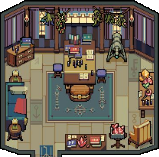
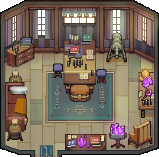
update

diff --git a/Games/yanno.js b/Games/yanno.js
@@ -20,20 +20,30 @@ function init() {
 
    let time = new Date();
 
+   let atr_value = "background-color: " + timecolor
+
    if (time.getHours() >= 20) { //entre 20h et minuit
-      timecolor = "#2e4482";
+      atr_value = "background-color: #2e4482";
    } else {
-      if (time.getHours() >= 17) { //entre 17h et minuit
-         timecolor = "#629fe3";
+      if (time.getHours() >= 19) {//entre 19h et 20h
+         atr_value = "background-color: #FCEBA8";
       } else {
-         if (time.getHours() >= 14) { //entre 14h et 17h
-            timecolor = "#6DB4EB";
+         if (time.getHours() >= 17) { //entre 17h et 19h
+            atr_value = "background-color: #629fe3";
          } else {
-            if (time.getHours() >= 8) { //entre 8h et 14h
-               timecolor = "#94CDFD";
+            if (time.getHours() >= 14) { //entre 14h et 17h
+               atr_value = "background-color: #6DB4EB";
             } else {
-               if (time.getHours() >= 0) { //entre minuit et 8h
-                  timecolor = "#131862";
+               if (time.getHours() >= 8) { //entre 8h et 14h
+                  atr_value = "background-color: #94CDFD";
+               } else {
+                  if (time.getHours() >= 2) { //entre 2h et 8h
+                     atr_value = "background-color: #131862";
+                  } else {
+                     if (time.getHours() >= 0) { //entre minuit et 2h
+                        atr_value = "background-image: url(\"./assets/starsky.gif\") !important; background-size: 100%;"
+                     }
+                  }
                }
             }
          }
@@ -50,8 +60,7 @@ function init() {
    // colorPicker.on('color:change', function (color) {
    //    camera.style.backgroundColor = color.hexString;
    // });
-
-   camera.style.backgroundColor = timecolor
+   camera.setAttribute("style", atr_value);
    spawn()
 }
 
@@ -61,6 +70,7 @@ var held_directions = []; //State of which arrow keys we are holding down
 var mapLimit = null
 
 function applyLimit(limit) {
+   console.log(limit)
    mapLimit = {
       leftLimit: limit.leftLimit,//x mur de gauche
       rightLimit: limit.rightLimit,// x mur de droite
@@ -140,6 +150,7 @@ const placeCharacter = () => {
 }
 
 async function signInterraction() {
+   if (list_interraction.texts == null || list_interraction.texts == undefined) { return }
    list_interraction.texts.forEach(txt => {
       if ((character_info.x >= txt.rangeX.xmin && character_info.x <= txt.rangeX.xmax) && (character_info.y >= txt.rangeY.ymin && character_info.y <= txt.rangeY.ymax)) {
          locktxt = true;
@@ -152,6 +163,7 @@ async function signInterraction() {
 }
 
 async function otherInterraction() {
+   if (list_interraction.others == null || list_interraction.others == undefined) { return }
    list_interraction.others.forEach(other_interraction => {
       if ((character_info.x >= other_interraction.rangeX.xmin && character_info.x <= other_interraction.rangeX.xmax) && (character_info.y >= other_interraction.rangeY.ymin && character_info.y <= other_interraction.rangeY.ymax)) {
          lockother = true;
@@ -164,6 +176,7 @@ async function otherInterraction() {
 }
 
 async function npcInterraction() {
+   if (list_interraction.npcs == null || list_interraction.npcs == undefined) { return }
    list_interraction.npcs.forEach(npc => {
       if ((character_info.x >= npc.rangeX.xmin && character_info.x <= npc.rangeX.xmax) && (character_info.y >= npc.rangeY.ymin && character_info.y <= npc.rangeY.ymax)) {
          locknpc = true;
@@ -241,14 +254,25 @@ document.addEventListener("keydown", (e) => {
       tchat_display(interraction_item)
       switch (interraction_item.type) {
          case 'door':
-            console.log(interraction_item)
             mapload(interraction_item.travel)
             break;
-         case 'fishing':
-            document.querySelector(".fishing").style.visibility = "visible"
-            setTimeout(() => {
-               document.querySelector(".fishing").style.visibility = "hidden"
-            }, 8000)
+         case 'other':
+            switch (interraction_item.name) {
+               case 'fishing':
+                  document.querySelector(".fishing").style.visibility = "visible"
+                  setTimeout(() => {
+                     document.querySelector(".fishing").style.visibility = "hidden"
+                  }, 8000)
+                  break
+               case 'telescope':
+                  map.style.visibility = "hidden";
+                  setTimeout(()=>{
+                     map.style.visibility = "visible"
+                  },5000)
+                  break
+               default:
+                  break;
+            }
          default:
             break;
       }
@@ -272,7 +296,7 @@ document.addEventListener("keydown", (e) => {
    }
 })
 
-function fondu(){
+function fondu() {
    anime.timeline({ loop: false })
       .add({
          targets: '.blackscreen',
@@ -282,7 +306,7 @@ function fondu(){
       });
 }
 
-function spawn(){
+function spawn() {
 
    fondu()
 
@@ -317,6 +341,7 @@ function spawn(){
    readTextFile("./components/Interractions.json", function (text) {
       var data = JSON.parse(text);
       list_interraction = data[spawnmap]
+      console.log(list_interraction)
    })
 }
 
@@ -440,6 +465,6 @@ function readTextFile(file, callback) {
    rawFile.send(null);
 }
 
-function tp(door_item){
+function tp(door_item) {
    console.log(door_item)
 }

diff --git a/Games/yanno.css b/Games/yanno.css
@@ -74,7 +74,6 @@
     height: calc(var(--grid-cell)* 2);
     position: absolute;
     overflow: hidden;
-    border: 1px solid red;
 }
 
 .shadow {
